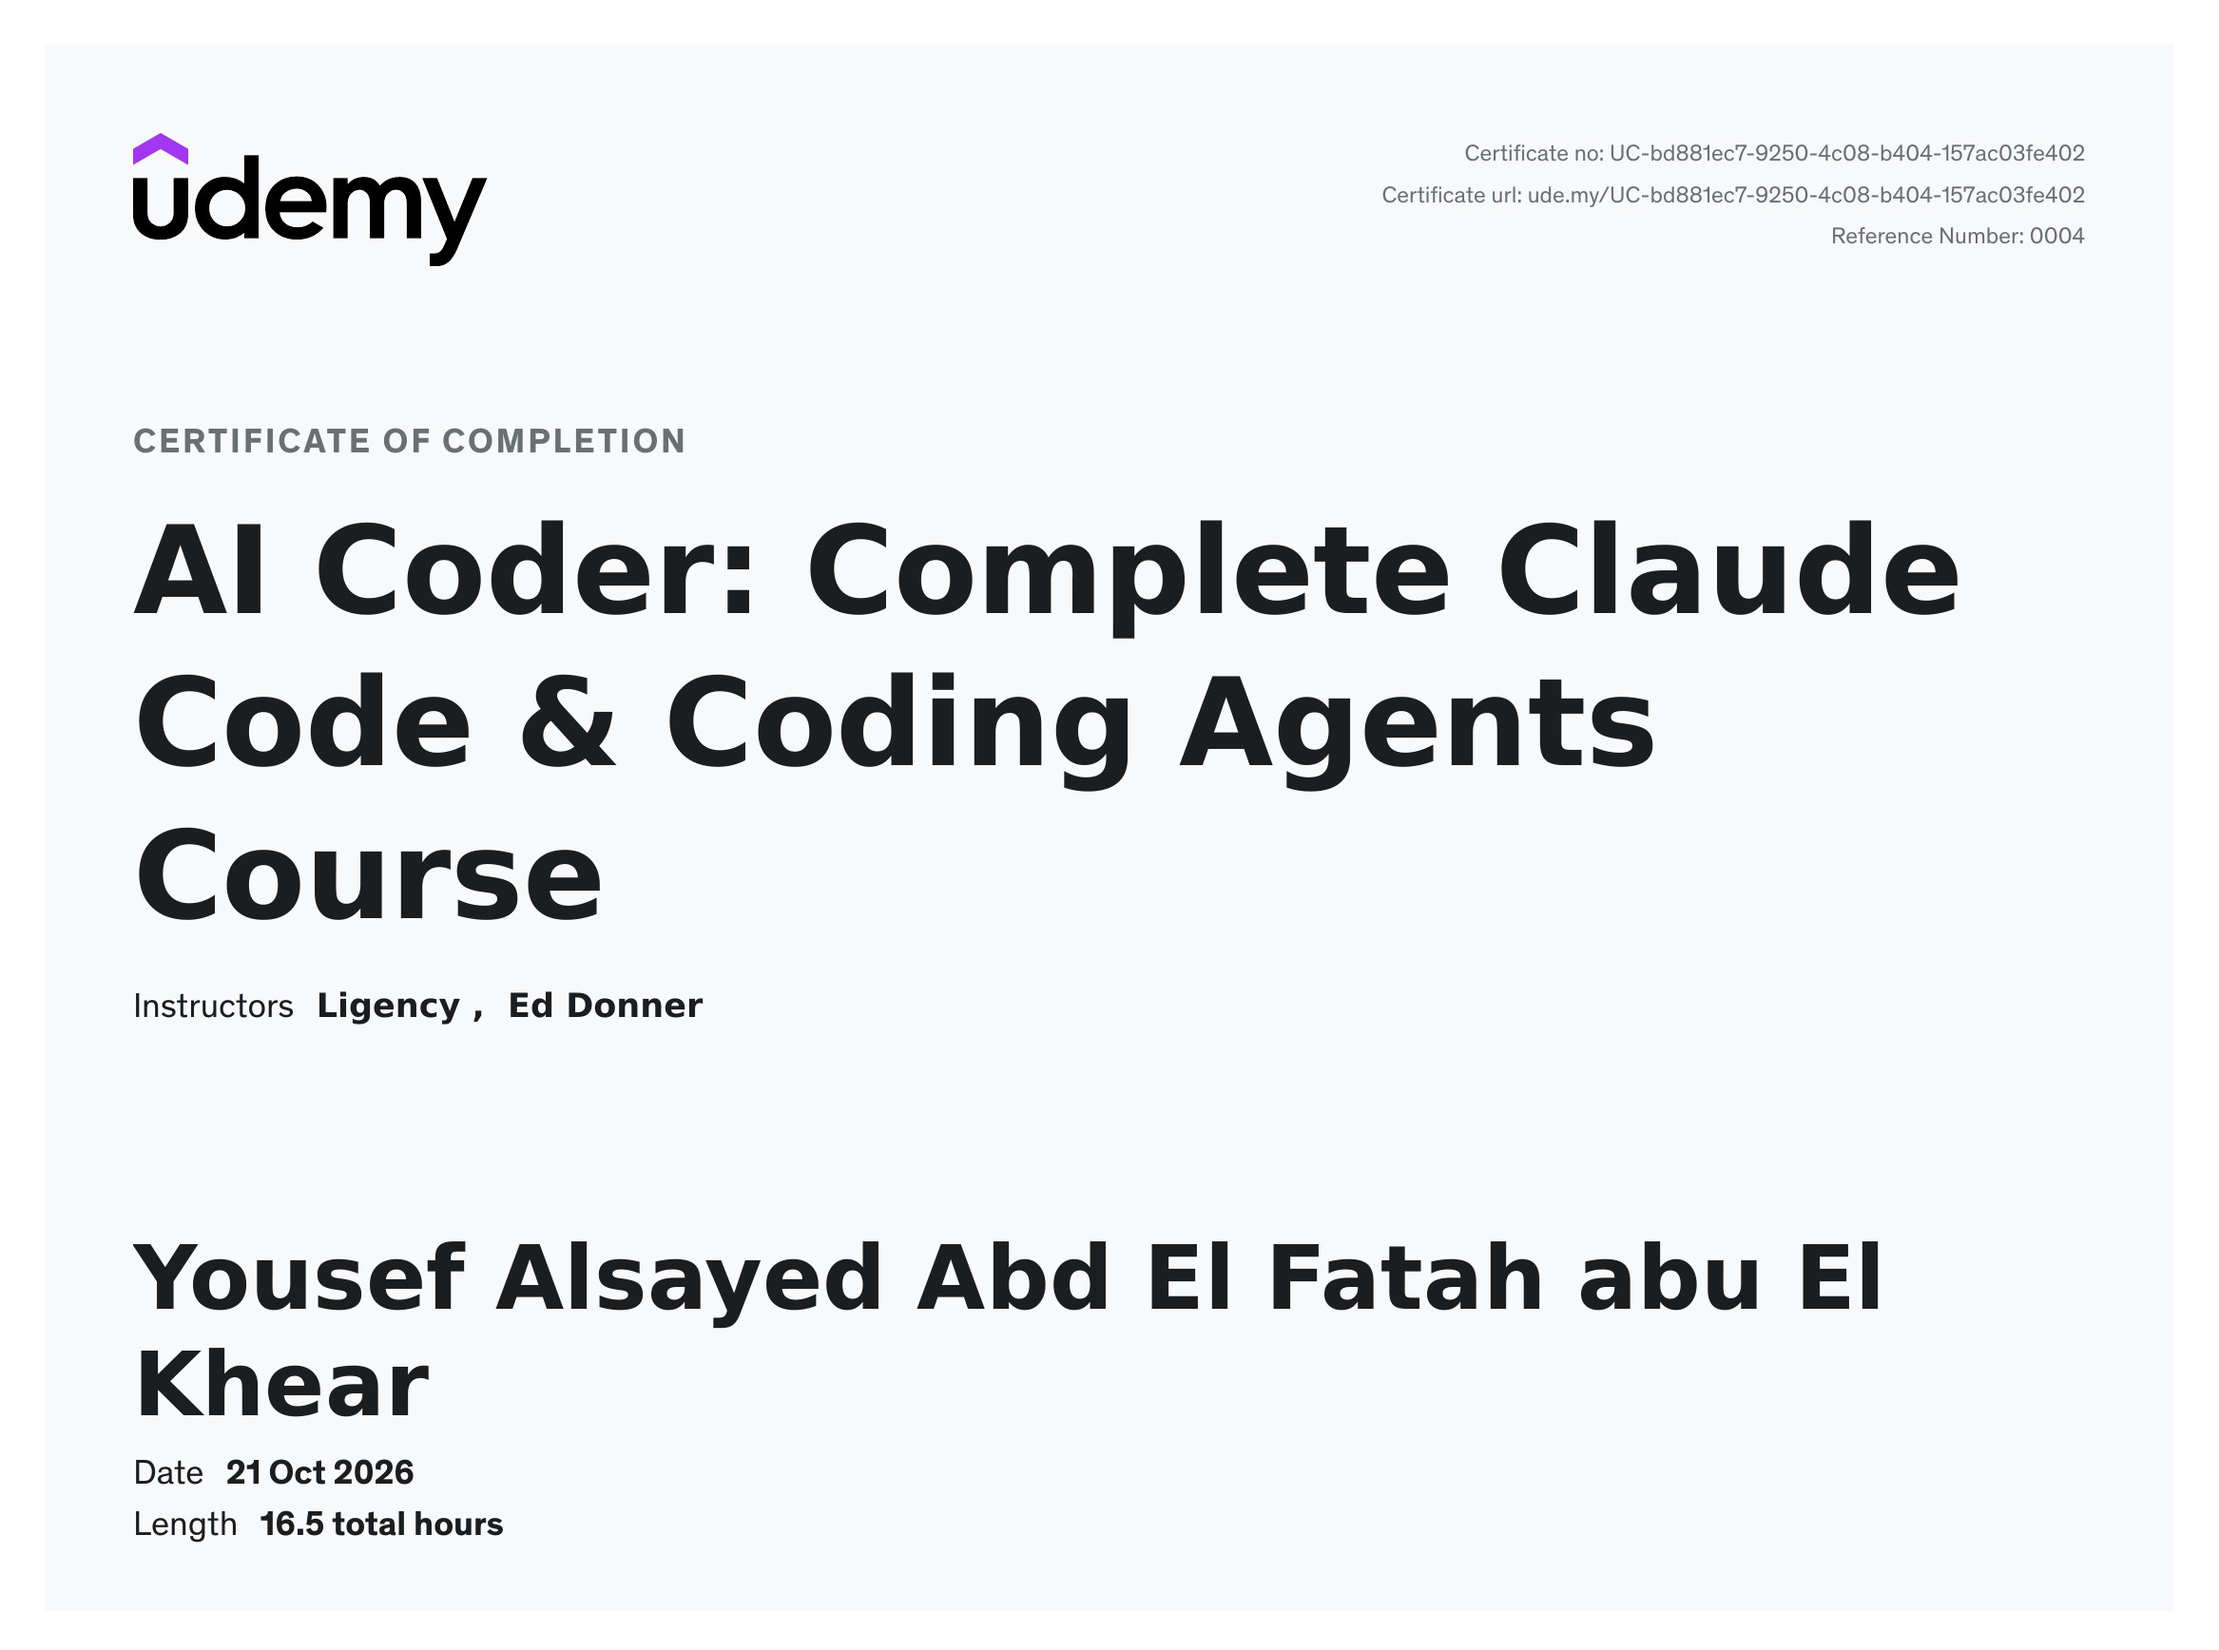
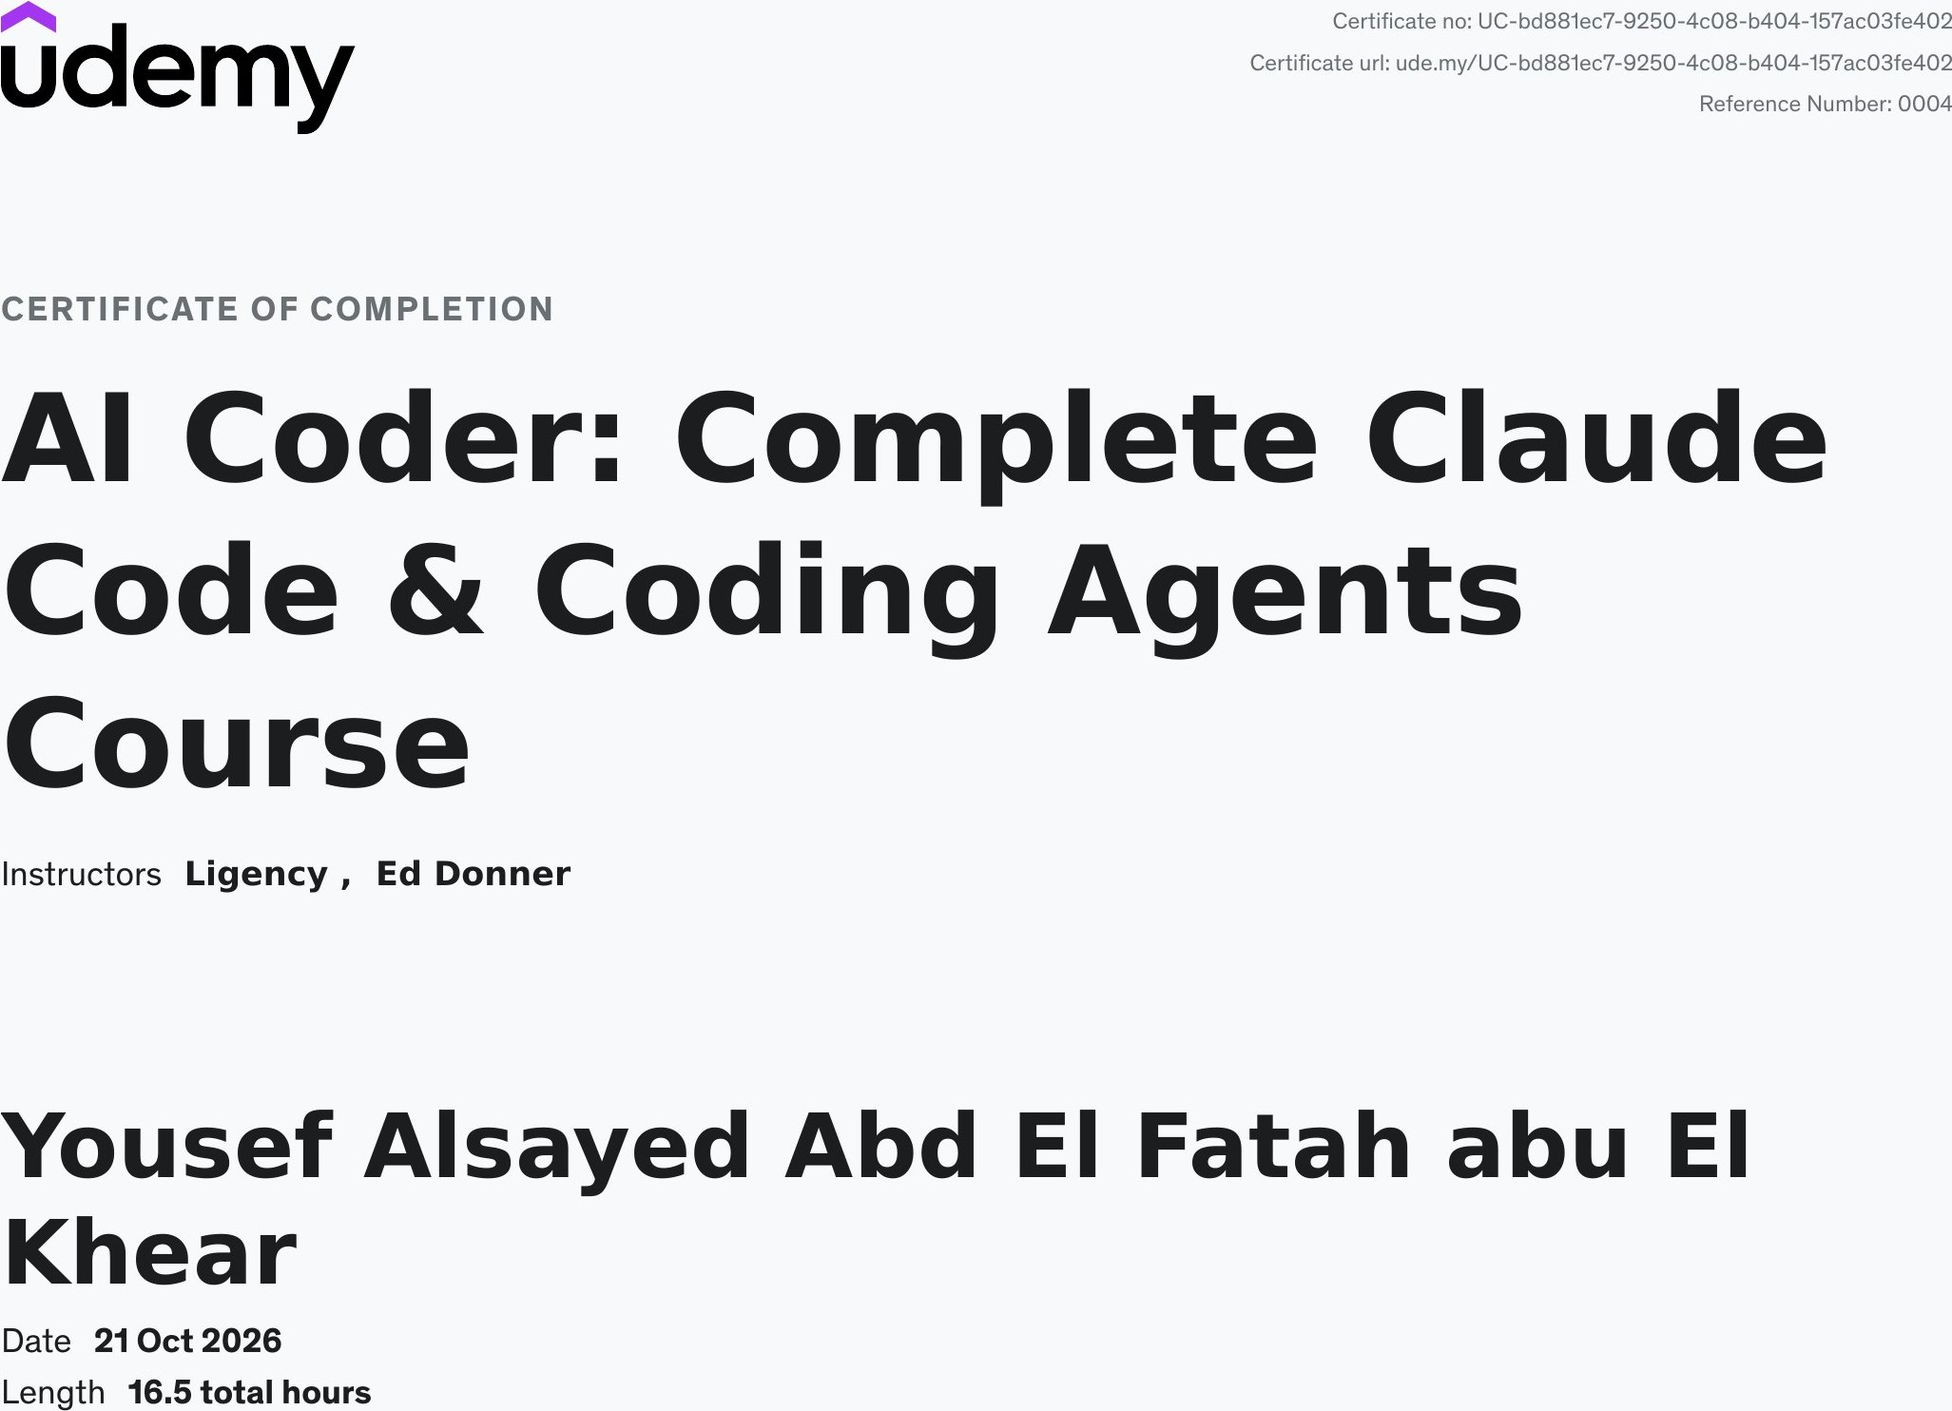
Show full certificates, shorter project notes, and award photos.
Certificate pages were clipped inside the project frame on a phone. Project notes drop the extra highlight list, and the graduation section uses the stage photo and the robot photo instead of the videos.

diff --git a/frontend/components/AchievementsSection.tsx b/frontend/components/AchievementsSection.tsx
@@ -111,31 +111,20 @@ export default function AchievementsSection({
               })}
             </div>
           )}
-          {(graduationProject.galleryVideos ?? []).map((video) => (
-            <video
-              key={video.src}
-              className="graduation-gallery-video"
-              src={video.src}
-              poster={video.poster}
-              aria-label={video.title}
-              controls
-              playsInline
-              preload="none"
-            >
-              Your browser does not support this video.
-            </video>
-          ))}
           <div className="graduation-photo-row">
-            {graduationProject.photos.map((photo, index) => (
+            {graduationProject.photos.map((photo) => (
               <Image
                 key={photo}
-                className={index === 0 ? 'graduation-design-render' : undefined}
                 src={photo}
-                alt={`${graduationProject.title} gallery image ${index + 1}`}
+                alt={
+                  photo.includes('stage')
+                    ? 'The team on stage after third place at the International Gathering of Artificial Intelligence in Egypt'
+                    : 'R2-WAITER on the exhibition table'
+                }
                 loading="lazy"
                 width={1280}
-                height={720}
-                sizes="(max-width: 768px) 90vw, 400px"
+                height={960}
+                sizes="(max-width: 768px) 92vw, 520px"
               />
             ))}
           </div>
@@ -149,7 +138,7 @@ export default function AchievementsSection({
           </div>
         </div>
 
-        <CardDeck items={certificateDeckItems} ariaLabel="Certifications and Credentials" />
+        <CardDeck items={certificateDeckItems} ariaLabel="Certifications and Credentials" variant="document" />
       </section>
     </section>
   );

diff --git a/frontend/app/styles/portfolio.css b/frontend/app/styles/portfolio.css
@@ -276,6 +276,9 @@
 
 .graduation-photo-row img {
   object-fit: contain;
+  height: auto;
+  aspect-ratio: auto;
+  background: #111318;
 }
 
 .graduation-gallery-video {
@@ -822,15 +825,32 @@
   width: 100% !important;
   height: 100% !important;
   aspect-ratio: 16 / 10 !important;
-  object-fit: cover;
+  object-fit: contain;
+  object-position: center;
   display: block;
   pointer-events: none;
 }
 
-.collectible-slab-media .collectible-cert-image {
+.collectible-showcase-split.is-document .collectible-slab-media {
+  aspect-ratio: 4 / 3;
+  background: #ffffff;
+}
+
+.collectible-showcase-split.is-document .collectible-slab-media img,
+.collectible-showcase-split.is-document .collectible-cert-image {
   object-fit: contain !important;
-  background: #FFFFFF;
-  padding: 6px;
+  background: #ffffff;
+  padding: 0;
+}
+
+@media (max-width: 768px) {
+  .collectible-showcase-split.is-document .collectible-deck-stage {
+    min-height: 460px;
+  }
+
+  .collectible-showcase-split.is-document .collectible-slab-media {
+    aspect-ratio: 4 / 3;
+  }
 }
 
 .collectible-slab-holo {

diff --git a/frontend/components/CardDeck.tsx b/frontend/components/CardDeck.tsx
@@ -42,9 +42,11 @@ const STACK_OFFSETS = [
 export default function CardDeck({
   items,
   ariaLabel,
+  variant = 'project',
 }: {
   items: CardDeckItem[];
   ariaLabel: string;
+  variant?: 'project' | 'document';
 }) {
   const [activeIndex, setActiveIndex] = useState(0);
   const [dragOffset, setDragOffset] = useState({ x: 0, y: 0 });
@@ -139,7 +141,7 @@ export default function CardDeck({
 
   return (
     <div
-      className="collectible-showcase-split"
+      className={`collectible-showcase-split is-${variant}`}
       role="region"
       aria-roledescription="carousel"
       aria-label={ariaLabel}
@@ -212,7 +214,7 @@ export default function CardDeck({
 
                 <div className="collectible-slab-media">
                   {item.renderMedia(isTop)}
-                  <div className="collectible-slab-holo" aria-hidden="true" />
+                  {variant === 'project' && <div className="collectible-slab-holo" aria-hidden="true" />}
                 </div>
 
                 {item.highlight && (

diff --git a/frontend/components/Projects.tsx b/frontend/components/Projects.tsx
@@ -102,8 +102,7 @@ export default function Projects({ projects: projectList }: { projects: ProjectS
     chips: project.technologies ?? [],
     highlight: project.highlight,
     steps: project.architecture,
-    stackLabel: 'Stack & Tools Used',
-    highlights: project.keyFeatures ?? [],
+    stackLabel: 'Stack',
     renderMedia: (isActive) => (
       <ProjectThumbnail project={project} autoPlay={isActive} />
     ),

diff --git a/content/achievements.md b/content/achievements.md
@@ -32,31 +32,22 @@ career_history:
 graduation_project:
   title: R2-WAITER — Autonomous Service Robot
   status: completed
-  description: Autonomous waiter robot for restaurants — B.Sc. Final Year Project in Mechatronics Engineering at MUST, Spring 2024.
+  description: Third place at the International Gathering of Artificial Intelligence in Egypt. Final-year mechatronics project at MUST, 2024.
   details:
-    - Designed and built an autonomous restaurant service robot on ROS1, integrating LIDAR (A1 M8) and Intel RealSense D435i depth-camera data for real-time 3D mapping, localization, and obstacle avoidance.
-    - Implemented SLAM with gmapping and slam_toolbox, plus Kalman Filter and Extended Kalman Filter sensor-fusion pipelines for robust pose estimation in dynamic environments.
-    - Built the navigation stack with Move_base, AMCL, and a combined DWA plus model-free adaptive-control approach for path planning and obstacle avoidance in tight restaurant aisles.
-    - Developed a layered driver, control-core, and application architecture on an NVIDIA Jetson Nano for hardware interfacing, mapping, localization, navigation, and human-robot interaction.
-    - Designed a customer-facing tablet and mobile web application with a ROS-bridge/WebSocket backend for order placement, table tracking through RF beacons, and secure per-customer order locking.
-    - Built a Python/PyQt5 and HTML/CSS/JavaScript interactive robot-face interface driven by live ROS topic data to reflect robot state and movement.
-    - Contributed to electrical and mechanical subsystems, including Eagle PCB and control-circuit design, motor sizing, battery-capacity calculations, and the mechanical structure for a six-person team project.
-  video: /projects/r2-waiter.mp4
-  gallery_videos:
-    - src: /projects/r2-waiter.mp4
-      poster: /graduation/r2_waiter_portfolio_renders.png
-      title: R2-Waiter animated face
-    - src: /graduation/r2-waiter-gallery-video.mp4
-      poster: /graduation/r2-waiter-gallery-video-poster.jpg
-      title: R2-Waiter project video
+    - Six of us built a restaurant robot.
+    - It navigated with a LIDAR and a RealSense camera on a Jetson Nano.
+    - Guests ordered from a tablet, and the face on the robot followed what it was doing.
+  video: ""
+  gallery_videos: []
   model: /graduation/r2_waiter_solidified_wink.glb
   photos:
-    - /graduation/r2_waiter_portfolio_renders.png
-  award: 3rd place at the International Gathering of Artificial Intelligence in Egypt
+    - /graduation/r2-waiter-on-stage.jpg
+    - /graduation/r2-waiter-gallery-photo.jpeg
+  award: 3rd place, International Gathering of Artificial Intelligence in Egypt
 ---
 
 # Graduation project and engineering achievement
 
 R2-WAITER is Yousef's completed autonomous restaurant service robot and B.Sc. final-year project at MUST in Spring 2024. The six-person team integrated ROS1, LIDAR, an Intel RealSense D435i depth camera, SLAM, sensor fusion, navigation, a customer ordering interface, and an interactive robot face on an NVIDIA Jetson Nano.
 
-The project earned 3rd place at the International Gathering of Artificial Intelligence in Egypt. The gallery includes the robot model, demonstration videos, and project photos.
+The project earned 3rd place at the International Gathering of Artificial Intelligence in Egypt. The photos are the team on stage and the robot on the table.

diff --git a/frontend/content/achievements.md b/frontend/content/achievements.md
@@ -32,31 +32,22 @@ career_history:
 graduation_project:
   title: R2-WAITER — Autonomous Service Robot
   status: completed
-  description: Autonomous waiter robot for restaurants — B.Sc. Final Year Project in Mechatronics Engineering at MUST, Spring 2024.
+  description: Third place at the International Gathering of Artificial Intelligence in Egypt. Final-year mechatronics project at MUST, 2024.
   details:
-    - Designed and built an autonomous restaurant service robot on ROS1, integrating LIDAR (A1 M8) and Intel RealSense D435i depth-camera data for real-time 3D mapping, localization, and obstacle avoidance.
-    - Implemented SLAM with gmapping and slam_toolbox, plus Kalman Filter and Extended Kalman Filter sensor-fusion pipelines for robust pose estimation in dynamic environments.
-    - Built the navigation stack with Move_base, AMCL, and a combined DWA plus model-free adaptive-control approach for path planning and obstacle avoidance in tight restaurant aisles.
-    - Developed a layered driver, control-core, and application architecture on an NVIDIA Jetson Nano for hardware interfacing, mapping, localization, navigation, and human-robot interaction.
-    - Designed a customer-facing tablet and mobile web application with a ROS-bridge/WebSocket backend for order placement, table tracking through RF beacons, and secure per-customer order locking.
-    - Built a Python/PyQt5 and HTML/CSS/JavaScript interactive robot-face interface driven by live ROS topic data to reflect robot state and movement.
-    - Contributed to electrical and mechanical subsystems, including Eagle PCB and control-circuit design, motor sizing, battery-capacity calculations, and the mechanical structure for a six-person team project.
-  video: /projects/r2-waiter.mp4
-  gallery_videos:
-    - src: /projects/r2-waiter.mp4
-      poster: /graduation/r2_waiter_portfolio_renders.png
-      title: R2-Waiter animated face
-    - src: /graduation/r2-waiter-gallery-video.mp4
-      poster: /graduation/r2-waiter-gallery-video-poster.jpg
-      title: R2-Waiter project video
+    - Six of us built a restaurant robot.
+    - It navigated with a LIDAR and a RealSense camera on a Jetson Nano.
+    - Guests ordered from a tablet, and the face on the robot followed what it was doing.
+  video: ""
+  gallery_videos: []
   model: /graduation/r2_waiter_solidified_wink.glb
   photos:
-    - /graduation/r2_waiter_portfolio_renders.png
-  award: 3rd place at the International Gathering of Artificial Intelligence in Egypt
+    - /graduation/r2-waiter-on-stage.jpg
+    - /graduation/r2-waiter-gallery-photo.jpeg
+  award: 3rd place, International Gathering of Artificial Intelligence in Egypt
 ---
 
 # Graduation project and engineering achievement
 
 R2-WAITER is Yousef's completed autonomous restaurant service robot and B.Sc. final-year project at MUST in Spring 2024. The six-person team integrated ROS1, LIDAR, an Intel RealSense D435i depth camera, SLAM, sensor fusion, navigation, a customer ordering interface, and an interactive robot face on an NVIDIA Jetson Nano.
 
-The project earned 3rd place at the International Gathering of Artificial Intelligence in Egypt. The gallery includes the robot model, demonstration videos, and project photos.
+The project earned 3rd place at the International Gathering of Artificial Intelligence in Egypt. The photos are the team on stage and the robot on the table.
